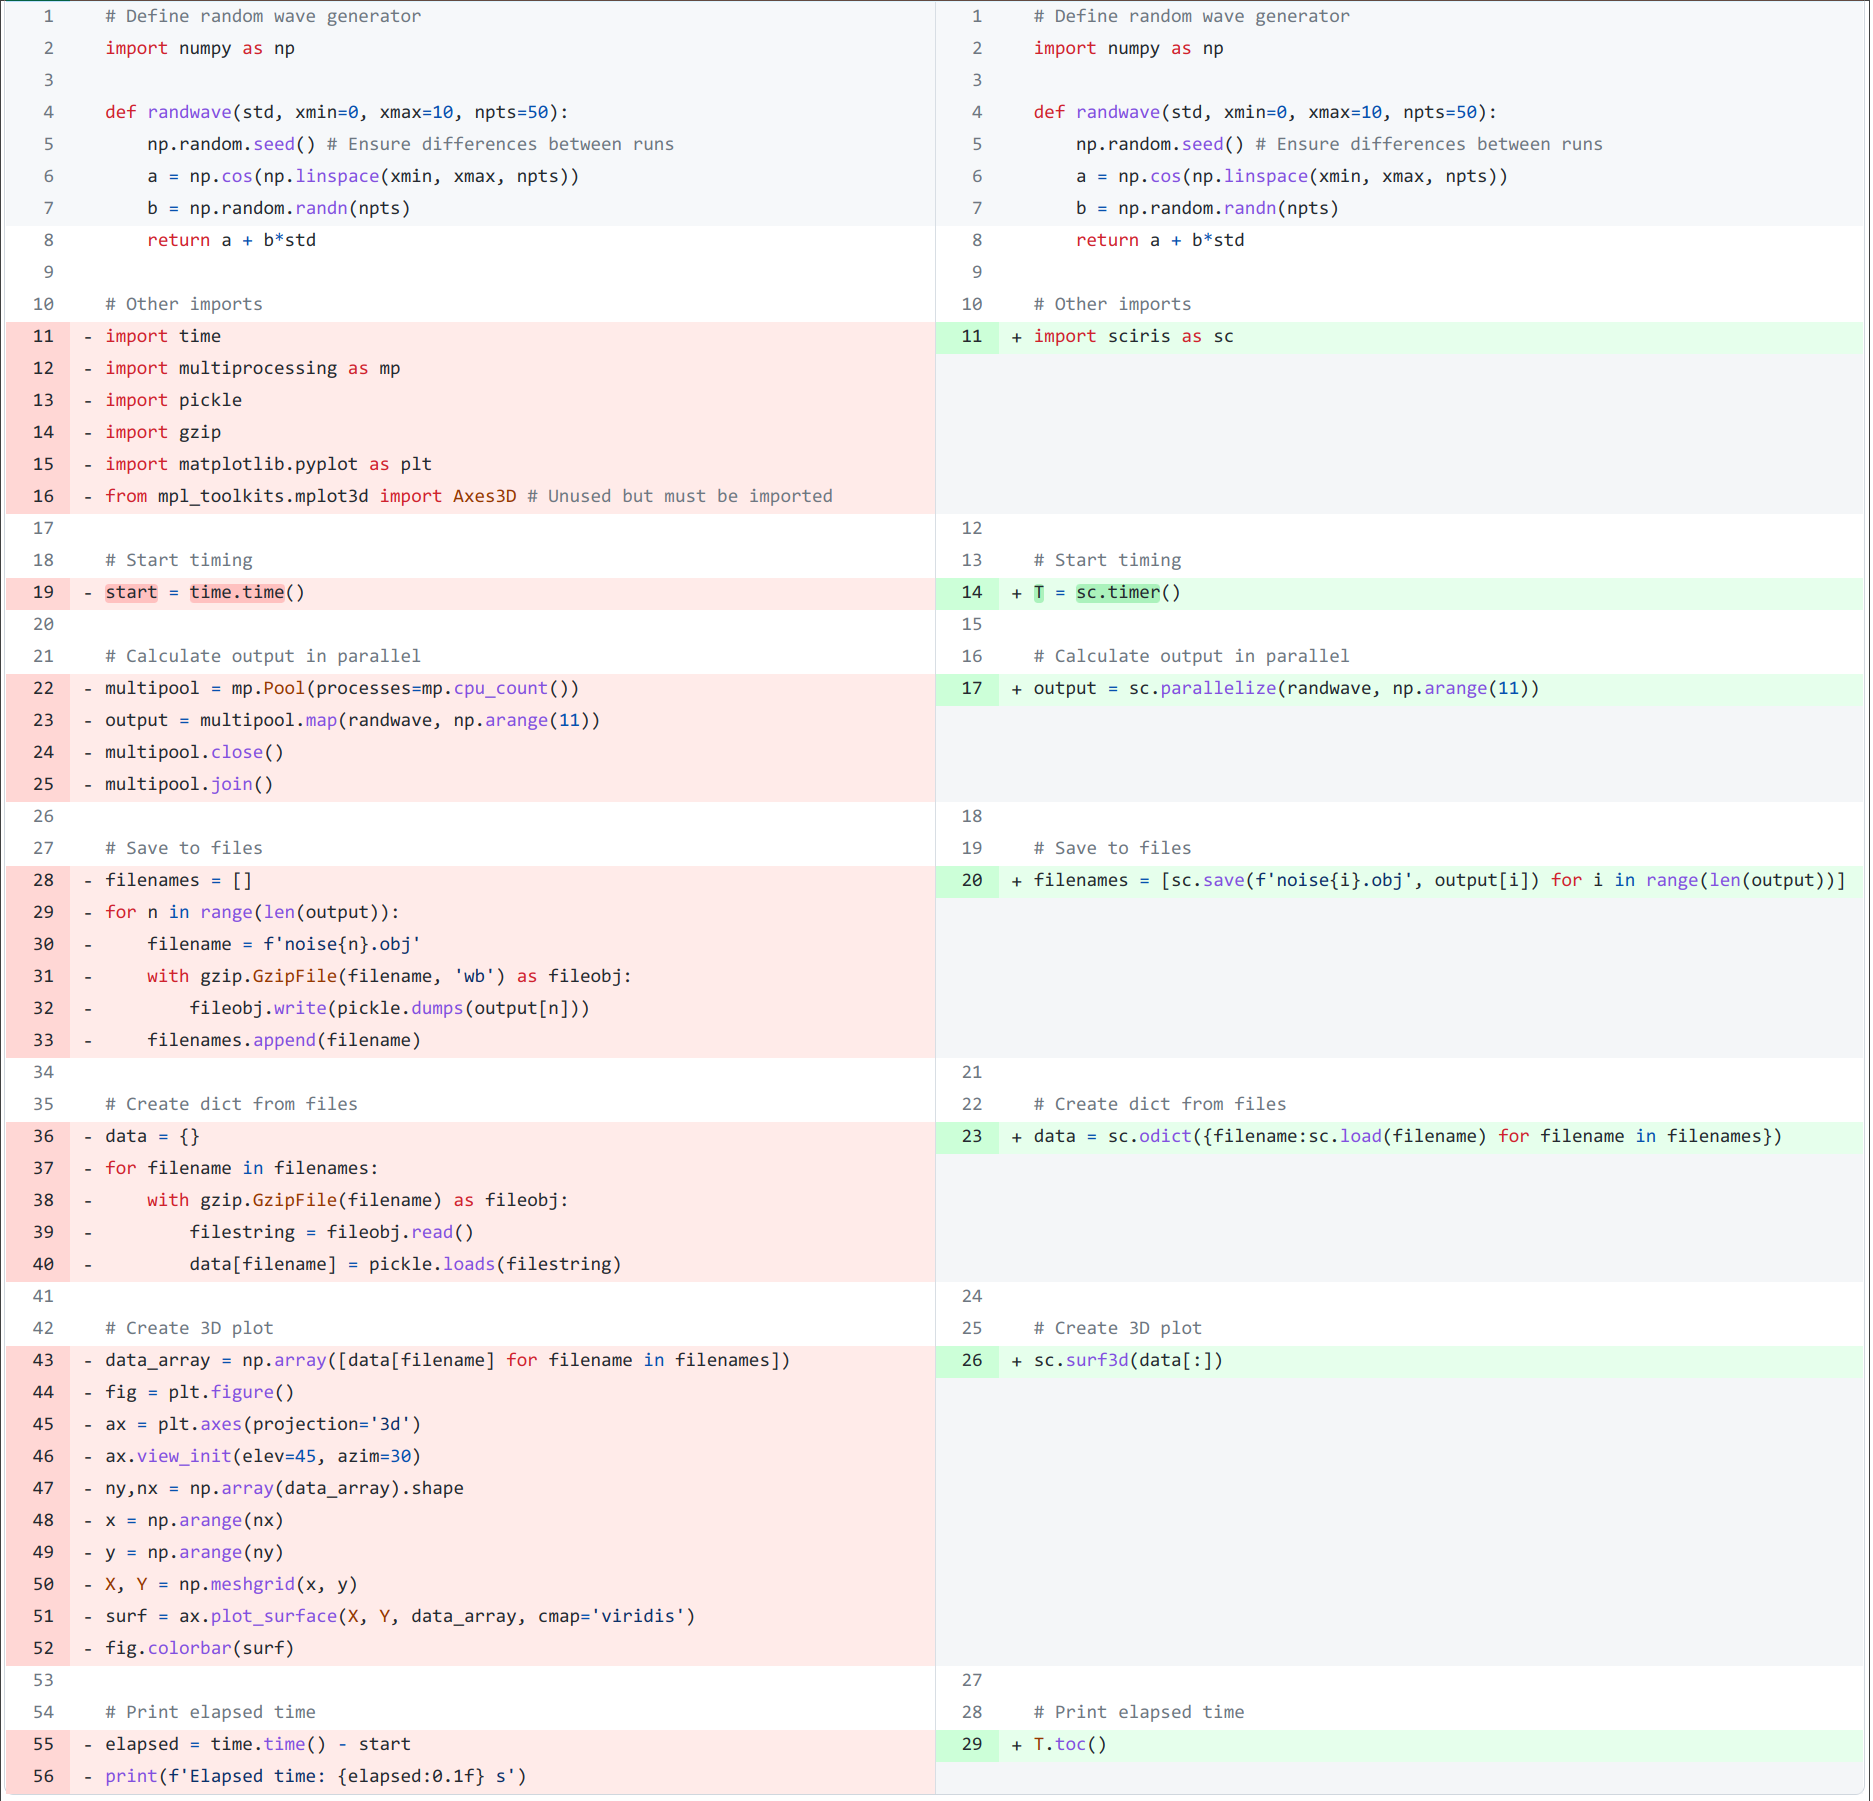
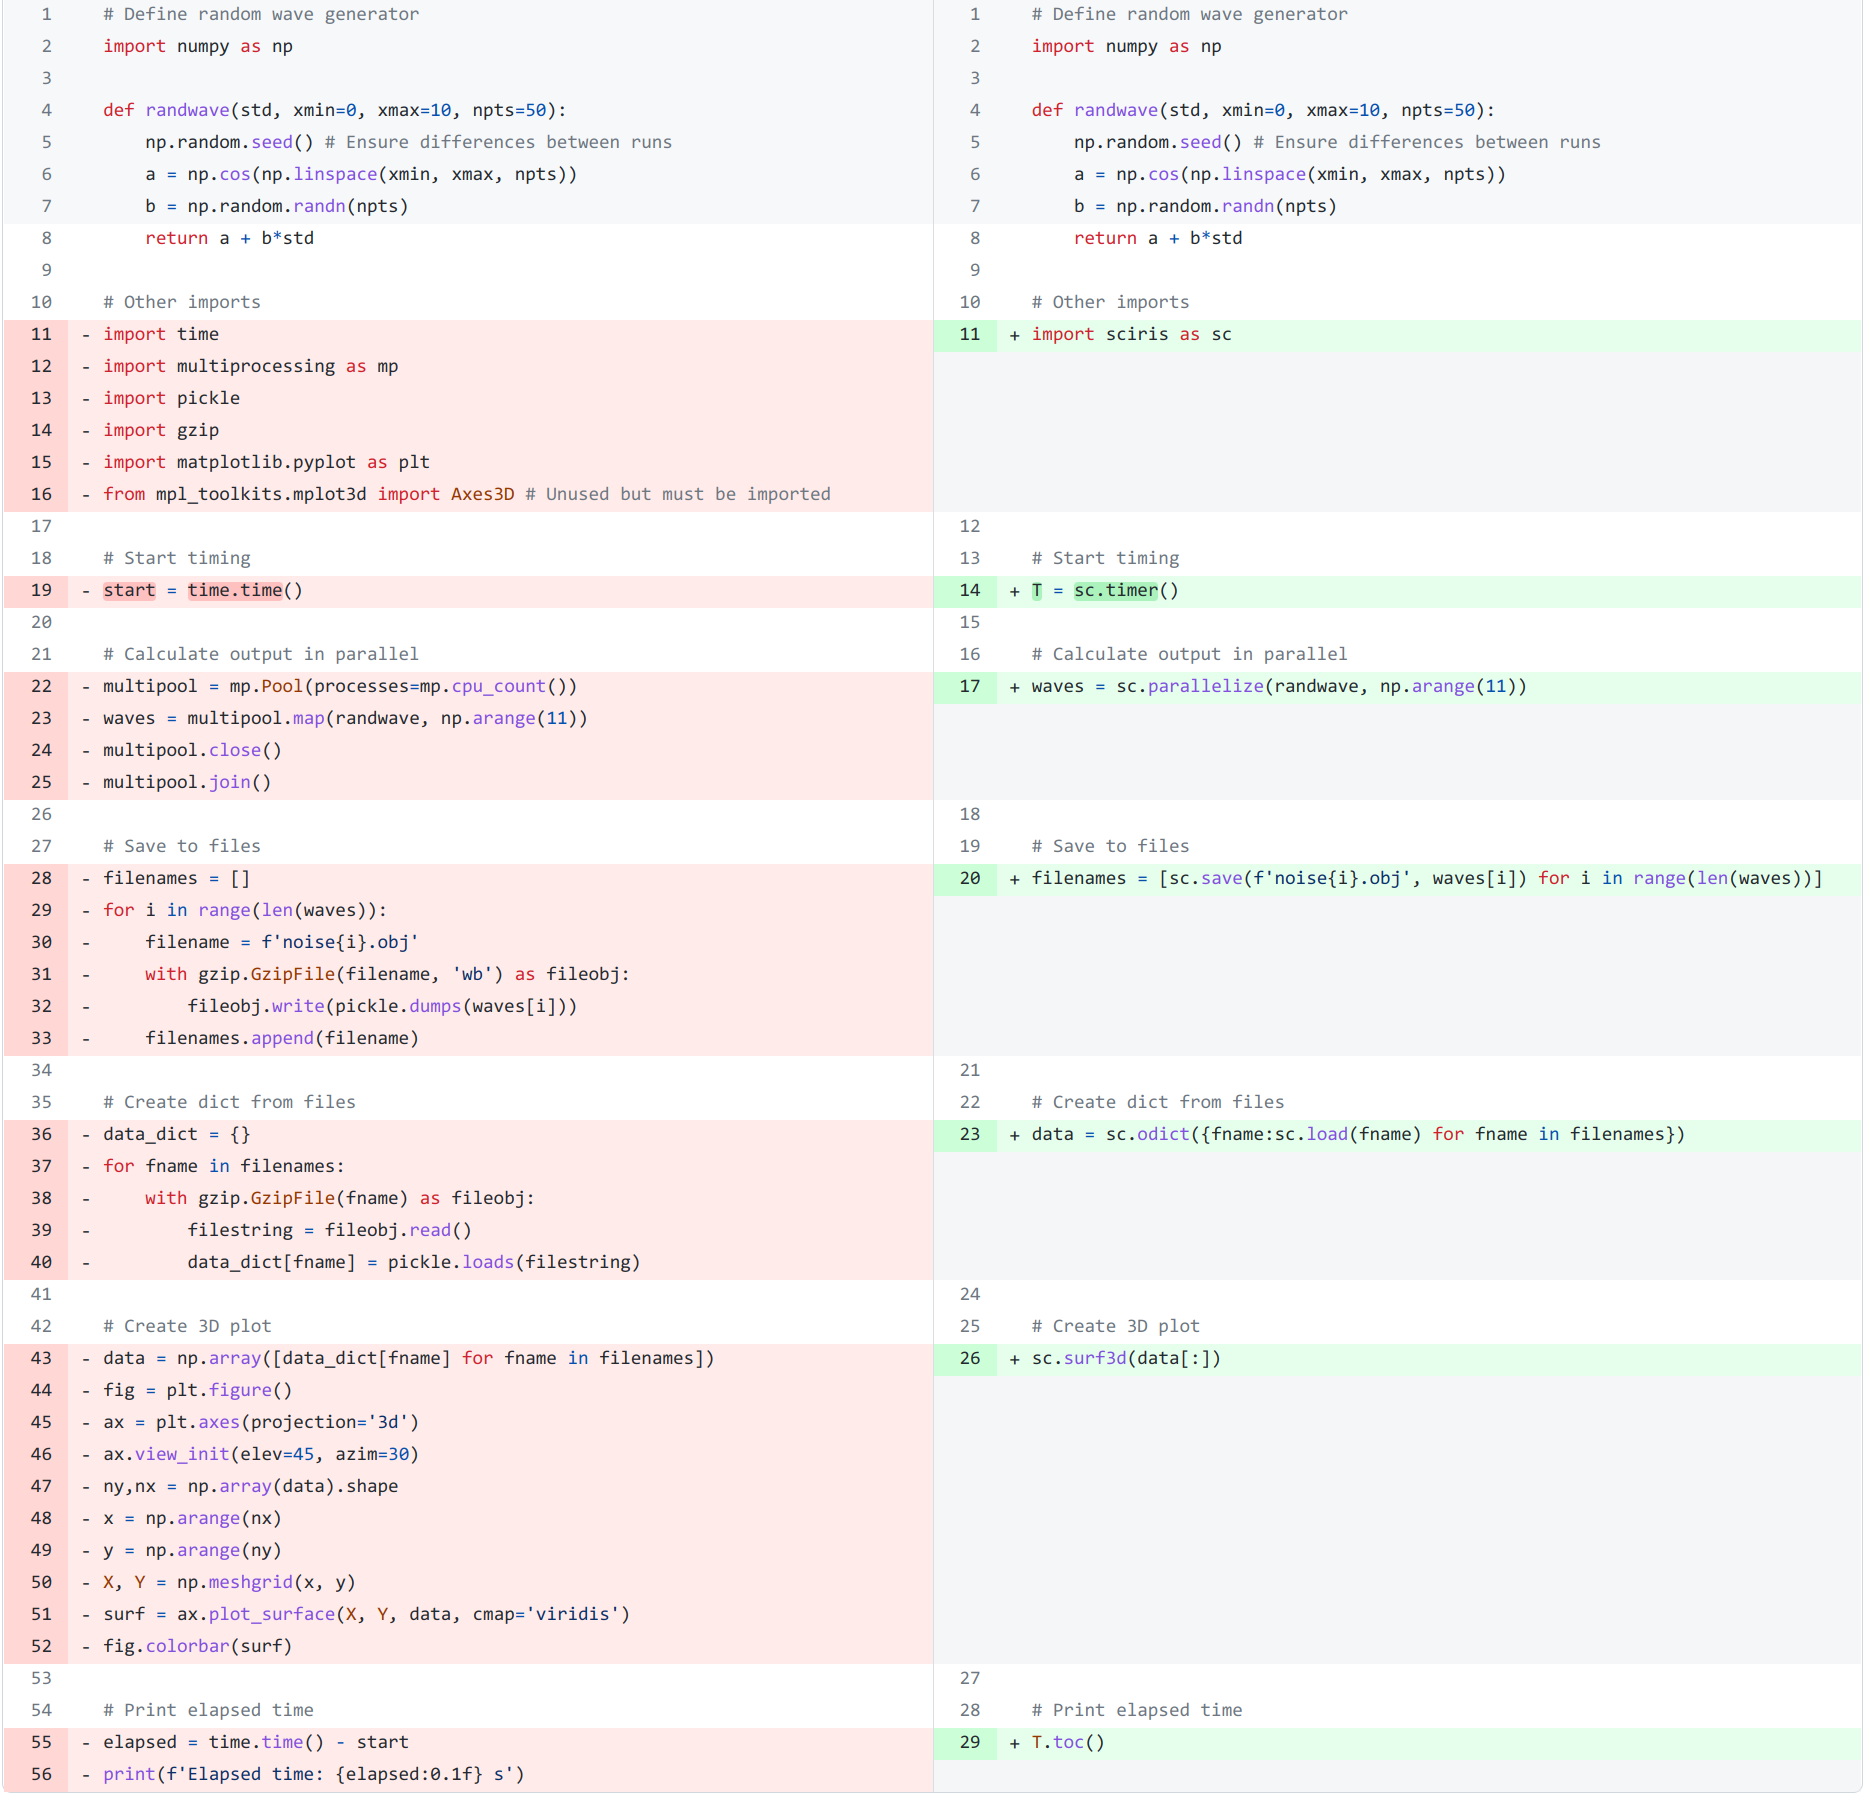
more updates

diff --git a/misc/showcase_vanilla.py b/misc/showcase_vanilla.py
@@ -2,7 +2,7 @@
 import numpy as np
 
 def randwave(std, xmin=0, xmax=10, npts=50):
-    np.random.seed() # Ensure differences between runs
+    np.random.seed(int(100*std)) # Ensure differences between runs
     a = np.cos(np.linspace(xmin, xmax, npts))
     b = np.random.randn(npts)
     return a + b*std
@@ -20,16 +20,16 @@ start = time.time()
 
 # Calculate output in parallel
 multipool = mp.Pool(processes=mp.cpu_count())
-waves = multipool.map(randwave, np.arange(11))
+waves = multipool.map(randwave, np.linspace(0, 1, 11))
 multipool.close()
 multipool.join()
 
 # Save to files
 filenames = []
-for i in range(len(waves)):
-    filename = f'noise{i}.obj'
+for i,wave in enumerate(waves):
+    filename = f'wave{i}.obj'
     with gzip.GzipFile(filename, 'wb') as fileobj:
-        fileobj.write(pickle.dumps(waves[i]))
+        fileobj.write(pickle.dumps(wave))
     filenames.append(filename)
 
 # Create dict from files
@@ -43,12 +43,11 @@ for fname in filenames:
 data = np.array([data_dict[fname] for fname in filenames])
 fig = plt.figure()
 ax = plt.axes(projection='3d')
-ax.view_init(elev=45, azim=30)
 ny,nx = np.array(data).shape
 x = np.arange(nx)
 y = np.arange(ny)
 X, Y = np.meshgrid(x, y)
-surf = ax.plot_surface(X, Y, data, cmap='viridis')
+surf = ax.plot_surface(X, Y, data, cmap='coolwarm')
 fig.colorbar(surf)
 
 # Print elapsed time

diff --git a/misc/showcase_sciris.py b/misc/showcase_sciris.py
@@ -2,7 +2,7 @@
 import numpy as np
 
 def randwave(std, xmin=0, xmax=10, npts=50):
-    np.random.seed() # Ensure differences between runs
+    np.random.seed(int(100*std)) # Ensure differences between runs
     a = np.cos(np.linspace(xmin, xmax, npts))
     b = np.random.randn(npts)
     return a + b*std
@@ -14,16 +14,16 @@ import sciris as sc
 T = sc.timer()
 
 # Calculate output in parallel
-waves = sc.parallelize(randwave, np.arange(11))
+waves = sc.parallelize(randwave, np.linspace(0, 1, 11))
 
 # Save to files
-filenames = [sc.save(f'noise{i}.obj', waves[i]) for i in range(len(waves))]
+filenames = [sc.save(f'wave{i}.obj', wave) for i,wave in enumerate(waves)]
 
 # Create dict from files
 data = sc.odict({fname:sc.load(fname) for fname in filenames})
 
 # Create 3D plot
-sc.surf3d(data[:])
+sc.surf3d(data[:], plotkwargs=dict(cmap='orangeblue'))
 
 # Print elapsed time
 T.toc()
